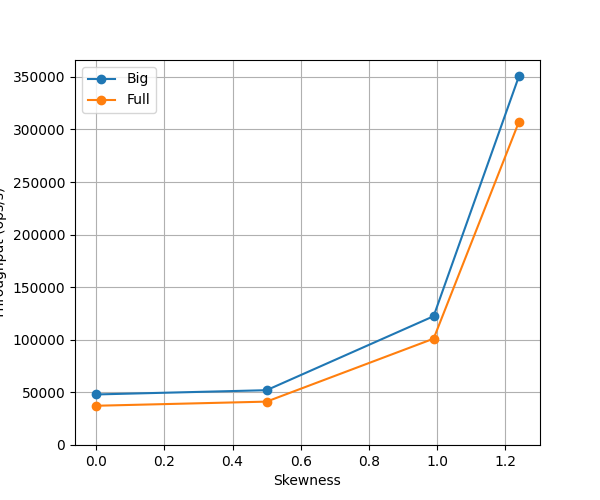
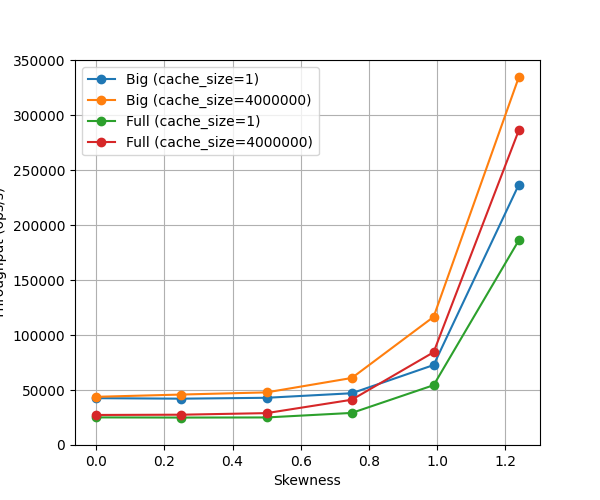
eval: complete draft

diff --git a/sections/evaluation.tex b/sections/evaluation.tex
@@ -102,7 +102,7 @@ For the UTXO workload, while the workload is not skewed, the cross-shard communi
 
 \begin{figure}
     \includegraphics[width=\linewidth]{graphs/skew-tput}
-    \caption{Saturated YCSB throughput under different Zipfian skewness factors.
+    \caption{Saturated YCSB throughput under different Zipfian skewness factors and cache sizes.
     }
     \label{fig:skew-tput}
 \end{figure}
@@ -112,6 +112,10 @@ The results are shown in \autoref{fig:skew-tput}.
 While \sys experiences significant performance degradation when the skewness factor is low, it is able to keep outperforming the fully-replicated BFT system at all skewness factors.
 With uniform distribution, \sys achieves around 13.7\% of the throughput of highly skewed distribution, while the fully-replicated BFT system achieves around 12.1\%.
 This result also confirms that the per-read overhead of \sys is comparable to that of the fully-replicated BFT system, even when the cache is ineffective and most \fetch operations need to be served remotely.
+
+On the other hand, cache sizes as less affection on the performance compared to the skewness factor.
+Disabling cache only reduces the throughput of \sys and the fully-replicated BFT system by 29.3\% and 34.9\% respectively under skewness factor 1.24, while under uniform distribution, disabling cache has no impact.
+This is credited to the batched concurrent \fetch optimization (\autoref{sec:impl}), which automatically deduplicates the fetched keys within the batches, which significantly reduces the pressure on the storage layer even without cache.
 
 \begin{figure}
     \includegraphics[width=\linewidth]{graphs/nodes-tput}
@@ -169,4 +173,14 @@ We perform the measurement with 4 to 100 nodes under the YCSB workload of skewne
 We adopt a realistic 500 MiB update table size budget, which means that during each checkpoint period, the nodes generate around 500 MiB update data in total.
 This means that the nodes execute 20 million operations and 2.2 million operations per checkpoint period under skewness factor 1.24 and 0.99 respectively.
 We measure the egress network traffic of each node during 1/10 of the checkpoint period.
+
 The results are shown in \autoref{fig:nodes-network}.
+We can see that the consensus and retrieval components incur mostly constant network traffic per node as the number of nodes increases.
+The checkpoint component shows increasing network traffic as the nodes storing less and less portion of the state and thus need to retrieve more remote shards, and it is bounded by the total state size.
+This confirms that \sys achieves good network scalability: as more nodes are added to the system, the network traffic per node remains mostly constant.
+
+We can also see that the retrieval component only adds a small portion to the online network traffic compared to the fully-replicated BFT system which only incurs consensus traffic.
+At lower skewness factor the retrieval traffic adds 30.2\% overhead to the consensus traffic, while at higher skewness factor the retrieval traffic only adds 2.3\% overhead.
+On the other hand, while the offline checkpoint traffic remains the same at different skewness factors, its proportion to the total network traffic is significantly different at different skewness factors: 24.9\% at skewness factor 1.24 and 69.8\% at skewness factor 0.99.
+This is because at higher skewness factor, the nodes are allowed to execute more operations within the same update table size budget, thus incurring more consensus and retrieval traffic.
+Despite the higher proportion of checkpoint traffic at lower skewness factor, the network resources consumed by checkpointing is still the same.
